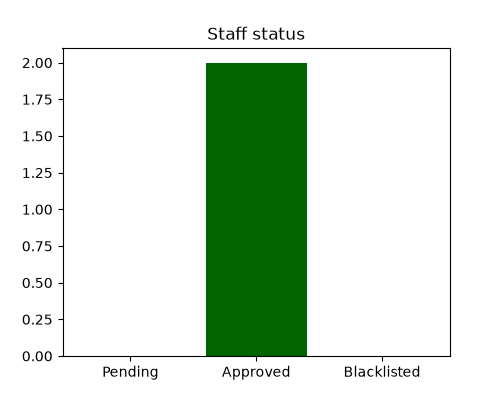
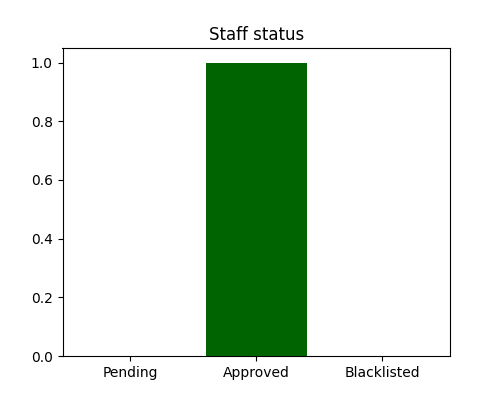
adding more utilities

diff --git a/application/controllers.py b/application/controllers.py
@@ -26,7 +26,8 @@ def landing_search():
     keyword = request.args.get("search")
     if not keyword:
         trek = Trek.query.all()
-    trek = Trek.query.filter((Trek.trek_name.ilike(f"%{keyword}%"))).all()
+    else:
+        trek = Trek.query.filter((Trek.trek_name.ilike(f"%{keyword}%"))).all()
     return render_template("landing_page.html", trek=trek)
     
 
@@ -87,11 +88,17 @@ def login():
     if request.method == 'POST':
         email = request.form.get("email_id")
         pwd = request.form.get("pwd")
+
+        if not email or not pwd:
+            flash("Please fill all fields.")
+            return redirect("/login_page")
+        
         this_user = User.query.filter_by(email=email).first()
 
         if this_user is None:
             flash("first signin your account")
             return redirect("/login_page")
+        
 
 
         if this_user.password != pwd:
@@ -105,6 +112,7 @@ def login():
         if this_user.role == "user" and this_user.status == "blacklist":
             flash("admin blacklisted your account")
             return redirect("/login_page")
+        
 
         #storing info in sessions
         session["user_id"] = this_user.id
@@ -163,7 +171,7 @@ def admin_dashboard():
     approve_user = User.query.filter_by(role="user",status="approve").count() 
     total_bookings = Booking.query.count()
 
-    if Trek.query.count() <= 0 or User.query.filter_by(role="staff").count <=0:
+    if Trek.query.count() <= 0 or User.query.filter_by(role="staff").count() <=0:
         return render_template("admin/admin_dashboard.html",this_user=this_user,
                             total_treks=total_treks, 
                             total_users = total_users,
@@ -364,8 +372,19 @@ def edit_trek(trek_id):
         treks.trek_name = request.form.get("trek_name")
         treks.location = request.form.get("location")
         treks.difficulty = request.form.get("difficulty")
-        treks.duration = request.form.get("duration")
-        treks.total_slots = request.form.get("total_slots")
+        treks.duration = int(request.form.get("duration"))
+
+        new_total_slots = int(request.form.get("total_slots"))
+
+        booked_slots = treks.total_slots - treks.available_slots
+
+        if new_total_slots < booked_slots:
+            flash(f"At least {booked_slots} slots are required because users have already booked.")
+            return redirect(f"/admin/edit_trek/{trek_id}")
+
+        treks.total_slots = new_total_slots
+        treks.available_slots = new_total_slots - booked_slots
+
         treks.start_date = datetime.strptime(request.form.get("start_date"),"%Y-%m-%d").date()
         treks.end_date = datetime.strptime(request.form.get("end_date"), "%Y-%m-%d").date()
         treks.staff_id = request.form.get("staff_id")
@@ -377,9 +396,9 @@ def edit_trek(trek_id):
             flash("This staff is already assigned to another open trek.")
             return redirect(f"/admin/edit_trek/{trek_id}")
 
-        if datetime.strptime(request.form.get("start_date"),"%Y-%m-%d").date() > datetime.strptime(request.form.get("end_date"), "%Y-%m-%d").date():
-            flash("start date should be less than end date")
-            return redirect("/admin/treks_page")
+        if datetime.strptime(request.form.get("start_date"), "%Y-%m-%d").date() >= datetime.strptime(request.form.get("end_date"), "%Y-%m-%d").date():
+            flash("Start date must be before the end date.")
+            return redirect(f"/admin/edit_trek/{trek_id}")
 
         if int(treks.duration) <= 0:
             flash("Duration must be greater than 0")
@@ -782,6 +801,9 @@ def trek_book(trek_id):
     if trek.available_slots <= 0 :
         flash("no slots available")
         return redirect("/user/trek_page")
+    if trek.end_date < datetime.today().date():
+        flash("This trek has already ended.")
+        return redirect("/user/trek_page")
     
     booking = Booking.query.filter_by(user_id=this_user.id, trek_id=trek.id,booking_status="booked").first()
     if booking:
@@ -812,9 +834,13 @@ def user_search_trek():
         return redirect("/login_page")
     
     keyword=request.args.get("search","").strip()
-    trek=Trek.query.filter(
-                            (Trek.difficulty.ilike(f"%{keyword}%"))|
-                            (Trek.location.ilike(f"%{keyword}%"))
+    trek = Trek.query.filter(
+                                Trek.status == "open",
+                                (
+                                    (Trek.trek_name.ilike(f"%{keyword}%")) |
+                                    (Trek.location.ilike(f"%{keyword}%")) |
+                                    (Trek.difficulty.ilike(f"%{keyword}%"))
+                                )
                             ).all()
     return render_template("/user/treks_page.html" ,trek=trek)
 
@@ -903,16 +929,16 @@ def staff_dashboard():
     trek_names=[]
     participants=[]
     for trek in assigned_treks:
-        total_participants += Booking.query.filter_by(trek_id=trek.id).count()
+        booked = Booking.query.filter_by(trek_id=trek.id,booking_status="booked").count()
+        total_participants += booked
         trek_names.append(trek.trek_name)
-        participants.append(len(trek.bookings))
+        participants.append(booked)
 
     labels = trek_names
     sizes = participants
-    color = ["orange", "darkgreen", "brown"]
 
     plt.figure(figsize=(11,6))
-    plt.barh(labels, sizes, color=color)
+    plt.barh(labels, sizes)
     plt.title("Trekkers on each treks")
     plt.savefig("static/images/staff_bar_1.png")
     plt.close()
@@ -1058,6 +1084,11 @@ def trek_edit(t_id):
             return redirect(f"/staff/trek_edit/{trek.id}")
         if available_slot > trek.total_slots :
             flash("available slots cannot exceede total slots")
+            return redirect(f"/staff/trek_edit/{trek.id}")
+        booked = Booking.query.filter_by(trek_id=trek.id,booking_status="booked").count()
+
+        if booked > 0 and status == "close":
+            flash("You cannot close a trek while participants are still booked.")
             return redirect(f"/staff/trek_edit/{trek.id}")
         
         trek.status = status
